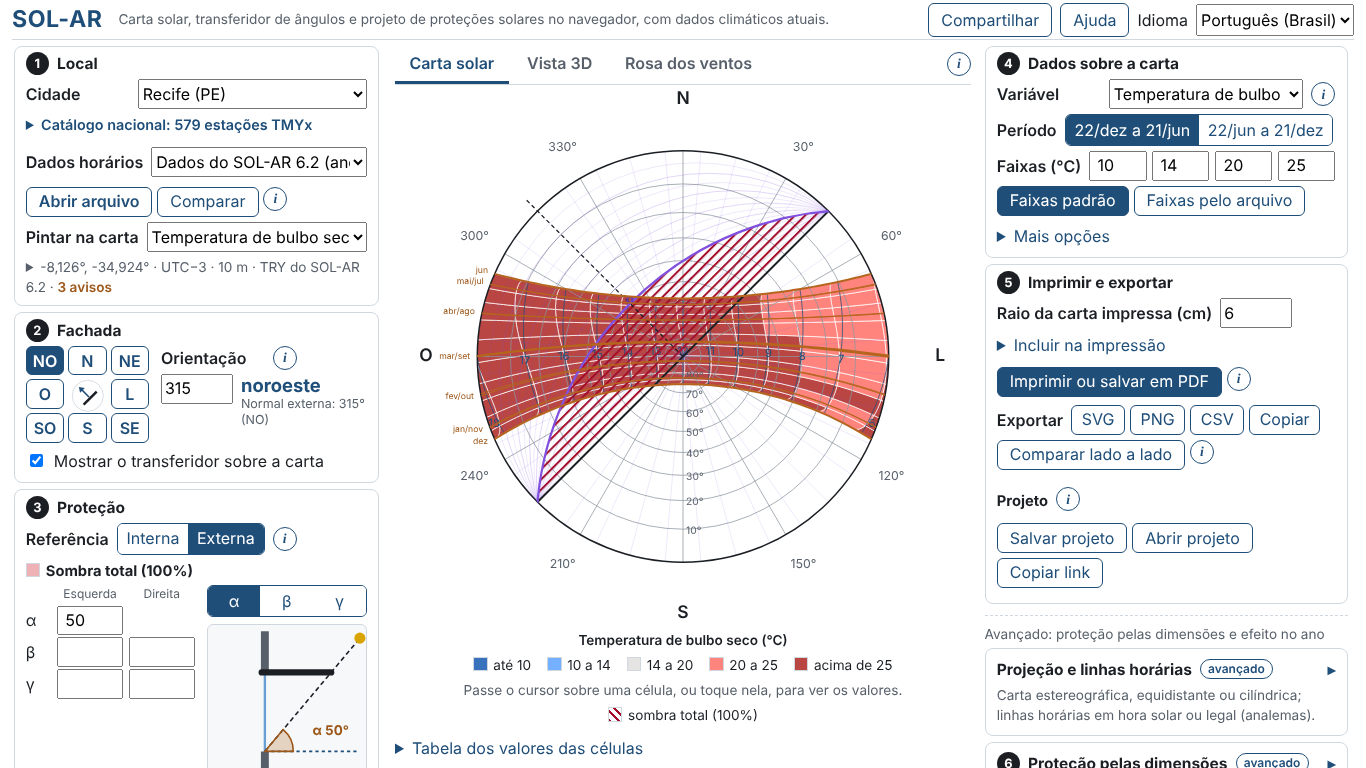
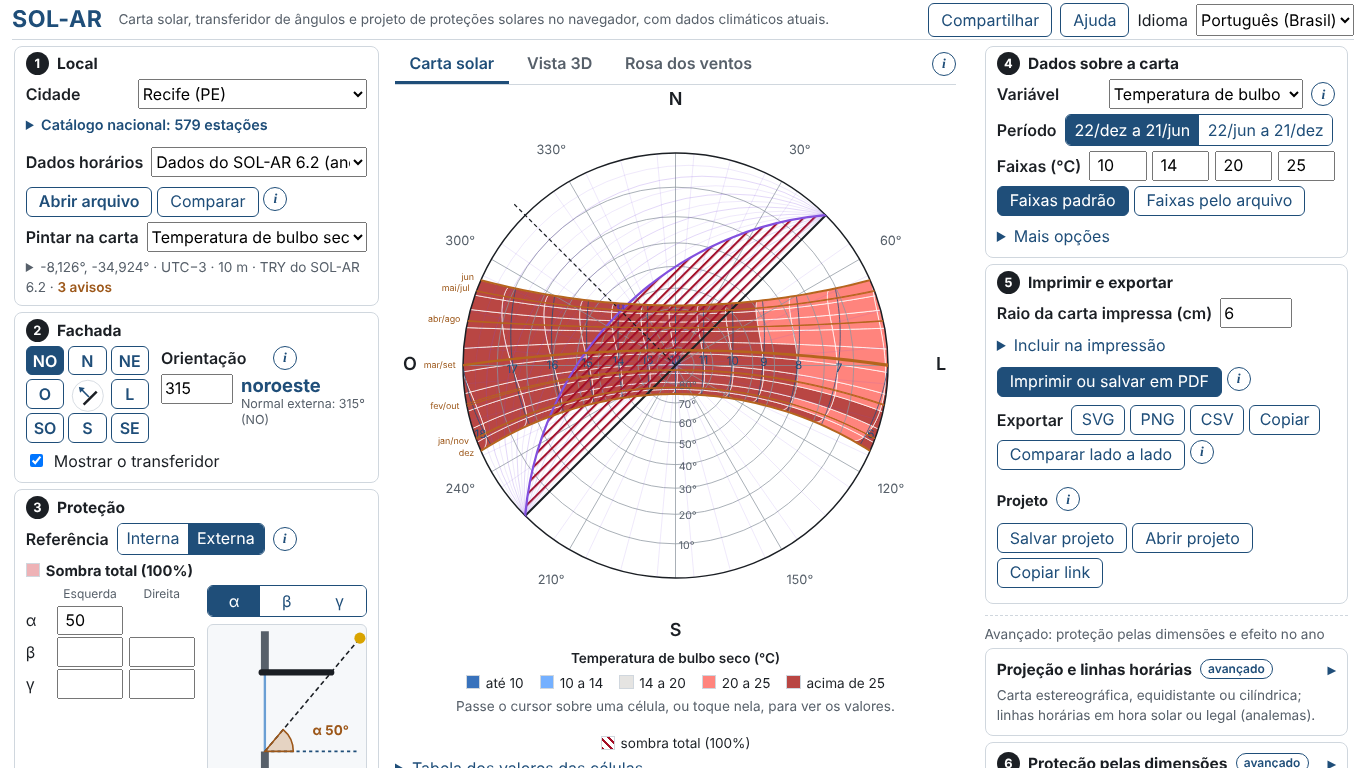
Leiaute em colunas: carta com tamanho fixo pela janela; rótulos que cabem na fonte do CI
- A carta ocupa a largura da coluna do meio, com a altura limitada pela
  da janela menos 12rem: o tamanho deixa de depender das legendas, que
  mudavam a escala da carta quando um cálculo terminava ou o valor da
  célula aparecia. O que passa da altura rola na coluna, com o espaço da
  barra reservado.
- Com a DejaVu Sans (a fonte do CI), três linhas quebravam em duas na
  coluna de 1200 px: a lista das fontes, o catálogo e o transferidor.
  Ficam numa linha: lista mais estreita, "Catálogo nacional: 579
  estações" e "Mostrar o transferidor" (com "sobre a carta" para o leitor
  de tela).
- Rótulos móveis da carta não cobrem mais os pontos do sol do período:
  os pontos contam como obstáculo na escolha da posição (o rótulo de uma
  marca podia cobrir o ponto do α com a fonte do CI).
- Teste do dimensionamento: a carta vem à vista sem ser centrada, o que
  rolaria a coluna do meio.

Claude-Session: https://claude.ai/code/session_01DzrTnMnaozu3adPAqfcNJE

diff --git a/src/ui/styles.css b/src/ui/styles.css
@@ -2316,7 +2316,7 @@ a.btn {
 }
 
 .field.sources .row > select {
-  flex-basis: 10rem;
+  flex-basis: 7rem;
 }
 
 .source-actions {
@@ -2572,74 +2572,50 @@ details.print-include {
     margin-top: 0.75rem;
   }
 
-  /* A carta do maior tamanho que a coluna permite: a moldura preenche a altura que sobra das
-     abas e das legendas, e o SVG se ajusta a ela sem deformar. */
+  /* A carta do maior tamanho que a coluna permite, com a altura limitada pela da janela menos o
+     cabeçalho, as abas e as legendas (12rem): o tamanho depende só da janela, e não muda quando as
+     legendas mudam (cálculo em andamento, valor da célula sob o mouse). O que passar da altura (a
+     tabela das células, a rosa com os filtros, a vista 3D, a comparação) rola na coluna, com o
+     espaço da barra de rolagem sempre reservado, para a carta não mudar de largura. */
   .chart-section {
     position: relative;
-    display: flex;
-    flex-direction: column;
     min-width: 0;
     min-height: 0;
     padding-top: 0.25rem;
-    overflow: hidden;
-  }
-
-  .chart-section > .info-text {
-    flex: none;
-    max-height: 30%;
     overflow-y: auto;
+    overscroll-behavior: contain;
+    scrollbar-gutter: stable;
   }
 
-  .chart-section:not(.comparing) > #panel-chart {
-    display: flex;
-    flex: 1 1 auto;
-    flex-direction: column;
-    min-height: 0;
-  }
-
-  .chart-section:not(.comparing) > #panel-chart > .chart-view {
-    display: flex;
-    flex: 1 1 auto;
-    flex-direction: column;
-    min-height: 0;
-  }
-
-  .chart-section:not(.comparing) .chart-view > .chart-frame {
-    flex: 1 1 auto;
-    min-height: 12rem;
-  }
-
-  .chart-section:not(.comparing) .chart-frame > .sun-chart {
+  .chart-section .chart-frame > .sun-chart {
     width: 100%;
-    height: 100%;
+    height: auto;
     max-width: none;
+    max-height: calc(100dvh - 12rem);
     margin: 0;
   }
 
   .chart-section .chart-view > .legend,
   .chart-section .chart-view > .note,
   .chart-section .chart-view > .cell-info {
-    flex: none;
     margin: 0.15rem 0;
     font-size: 0.85rem;
   }
 
-  .chart-section .cell-info {
-    min-height: 0;
-  }
-
-  /* A rosa, a vista 3D e a comparação rolam dentro da coluna; a rosa cabe abaixo dos filtros. */
-  .chart-section > #panel-rose,
-  .chart-section > #panel-3d,
-  .chart-section > .compare,
-  .chart-section > .difference {
-    flex: 1 1 auto;
-    min-height: 0;
-    overflow-y: auto;
-  }
-
   .chart-section .wind-rose {
     max-height: calc(100dvh - 22rem);
+  }
+
+  .chart-section .cell-info {
+    margin-bottom: 0;
+  }
+
+  .chart-section .cell-table {
+    margin-top: 0.15rem;
+  }
+
+  .chart-section details.more summary {
+    min-height: 26px;
   }
 
   /* Passos: os sempre abertos (decisão 0050) com o título no lugar do resumo; os avançados

diff --git a/src/ui/i18n/messages.es.ts b/src/ui/i18n/messages.es.ts
@@ -883,7 +883,7 @@ export const es: Catalog = {
     'La orientación cambió: la comparación sigue con la fachada a {orientation}°, la del ejercicio.',
   'mask.answer': 'máscara calculada (respuesta del ejercicio)',
   // F4.1: catálogo nacional de estaciones (decisión 0034).
-  'catalog.heading': 'Catálogo nacional: {count} estaciones TMYx',
+  'catalog.heading': 'Catálogo nacional: {count} estaciones',
   'catalog.intro':
     'Estaciones de Brasil con archivo TMYx 2011 a 2025 en Climate.OneBuilding.org, con los datos de cada archivo y la calidad verificada por nosotros. El archivo se descarga del sitio oficial y se carga aquí.',
   'catalog.loading': 'Cargando el catálogo…',
@@ -1090,6 +1090,8 @@ export const es: Catalog = {
   'site.originLink': 'coordenadas del enlace',
   'facade.orientationLabel': 'Orientación',
   'facade.orientationLabelDetail': ' de la fachada (acimut de la normal exterior)',
+  'facade.showProtractorShort': 'Mostrar el transportador',
+  'facade.showProtractorDetail': ' sobre la carta',
   'protection.referenceShort': 'Referencia',
   'angles.caption': '{view}, referencia {reference}',
   'sources.compareShort': 'Comparar',

diff --git a/src/ui/i18n/messages.en.ts b/src/ui/i18n/messages.en.ts
@@ -874,7 +874,7 @@ export const en: Catalog = {
     'The orientation changed: the comparison stays with the facade at {orientation}°, that of the exercise.',
   'mask.answer': 'computed mask (answer of the exercise)',
   // F4.1: national station catalogue (decision 0034).
-  'catalog.heading': 'National catalogue: {count} TMYx stations',
+  'catalog.heading': 'National catalogue: {count} stations',
   'catalog.intro':
     'Brazilian stations with a TMYx 2011 to 2025 file on Climate.OneBuilding.org, with the data of each file and its quality checked by us. The file is downloaded from the official site and loaded here.',
   'catalog.loading': 'Loading the catalogue…',
@@ -1079,6 +1079,8 @@ export const en: Catalog = {
   'site.originLink': 'coordinates from the link',
   'facade.orientationLabel': 'Facade orientation',
   'facade.orientationLabelDetail': ' (azimuth of the outward normal)',
+  'facade.showProtractorShort': 'Show the protractor',
+  'facade.showProtractorDetail': ' on the chart',
   'protection.referenceShort': 'Reference',
   'angles.caption': '{view}, {reference} reference',
   'sources.compareShort': 'Compare',

diff --git a/src/ui/chart/useLabelLayout.ts b/src/ui/chart/useLabelLayout.ts
@@ -20,7 +20,8 @@ function apply(el: SVGTextElement, c: Candidate) {
 
 /**
  * Põe cada texto com `data-candidates` da carta na primeira posição candidata que não cobre outro
- * texto (labelLayout.ts). Roda depois de cada desenho, antes da pintura; mede só quando os textos
+ * texto nem uma marca com `data-label-obstacle` (os pontos do sol do período, por exemplo; ver
+ * labelLayout.ts). Roda depois de cada desenho, antes da pintura; mede só quando os textos
  * mudaram.
  */
 export function layoutLabels(svg: SVGSVGElement) {
@@ -41,7 +42,8 @@ export function layoutLabels(svg: SVGSVGElement) {
     movable.forEach((el, i) => apply(el, candidates[i]![cached.choice[i]!]!));
     return;
   }
-  const obstacles = fixed.map(rectOf).filter((b) => b.x1 > b.x0 && b.y1 > b.y0);
+  const marks = [...svg.querySelectorAll('[data-label-obstacle]')];
+  const obstacles = [...fixed, ...marks].map(rectOf).filter((b) => b.x1 > b.x0 && b.y1 > b.y0);
   const choice = movable.map((el, i) => {
     const cands = candidates[i]!;
     const boxes = cands.map((c) => {

diff --git a/e2e/dimensionamento.spec.ts b/e2e/dimensionamento.spec.ts
@@ -71,7 +71,9 @@ test.describe('passo 6: dimensionamento pelo período (F3.6)', () => {
     // Grade de pontos da carta, separados pelo contorno desenhado (com 0,03 de folga): os de
     // dentro ficam em maioria esverdeados (linhas da carta cobrem uma parte), os de fora, quase
     // nunca.
-    await chart.evaluate((el) => el.scrollIntoView({ block: 'center' }));
+    // Só se a carta não estiver inteira à vista: centrar rolaria a coluna do meio (decisão 0050) e
+    // tiraria de vista a metade de cima, onde fica o sol de 21/6.
+    await chart.evaluate((el) => el.scrollIntoView({ block: 'nearest' }));
     const d = (await page.getByTestId('period-area').getAttribute('d'))!;
     const poly = [...d.matchAll(/[ML](-?[\d.]+),(-?[\d.]+)/g)].map((m) => [
       Number(m[1]),

diff --git a/src/ui/i18n/messages.pt-BR.fase4.ts b/src/ui/i18n/messages.pt-BR.fase4.ts
@@ -197,7 +197,7 @@ export const fase4PtBR = {
     'A orientação mudou: a comparação continua com a fachada a {orientation}°, a do exercício.',
   'mask.answer': 'máscara calculada (resposta do exercício)',
   // F4.1: catálogo nacional de estações (decisão 0034).
-  'catalog.heading': 'Catálogo nacional: {count} estações TMYx',
+  'catalog.heading': 'Catálogo nacional: {count} estações',
   'catalog.intro':
     'Estações do Brasil com arquivo TMYx 2011 a 2025 no Climate.OneBuilding.org, com os dados de cada arquivo e a qualidade conferida por nós. O arquivo é baixado do site oficial e carregado aqui.',
   'catalog.loading': 'Carregando o catálogo…',

diff --git a/src/ui/i18n/messages.pt-BR.layout.ts b/src/ui/i18n/messages.pt-BR.layout.ts
@@ -19,6 +19,8 @@ export const layoutPtBR = {
   // Passo 2: o rótulo curto à vista; o resto do nome do campo para o leitor de tela.
   'facade.orientationLabel': 'Orientação',
   'facade.orientationLabelDetail': ' da fachada (azimute da normal externa)',
+  'facade.showProtractorShort': 'Mostrar o transferidor',
+  'facade.showProtractorDetail': ' sobre a carta',
   // Passo 3: o rótulo curto da referência (o grupo tem o nome inteiro).
   'protection.referenceShort': 'Referência',
   'angles.caption': '{view}, referência {reference}',

diff --git a/src/ui/sizing/PeriodLayer.tsx b/src/ui/sizing/PeriodLayer.tsx
@@ -78,7 +78,8 @@ export function PeriodMarks({
     <g className="period" data-testid="period-marks">
       {[...marks.values()].map((m) => (
         <g key={`${m.x},${m.y}`} className="period-mark" data-testid="period-mark">
-          <circle cx={m.x} cy={m.y} r={0.018} />
+          {/* Obstáculo para os rótulos móveis: nenhum rótulo cobre o ponto do sol. */}
+          <circle cx={m.x} cy={m.y} r={0.018} data-label-obstacle="" />
           <text
             x={m.x + 0.03}
             y={m.y}

diff --git a/src/ui/protractor/FacadePanel.tsx b/src/ui/protractor/FacadePanel.tsx
@@ -180,7 +180,11 @@ export function FacadePanel({
           checked={state.show}
           onChange={(e) => onChange({ tr: e.target.checked ? '' : '0' })}
         />
-        {t('facade.showProtractor')}
+        {/* Rótulo curto à vista, para caber numa linha; o nome inteiro para o leitor de tela. */}
+        <span>
+          {t('facade.showProtractorShort')}
+          <span className="visually-hidden">{t('facade.showProtractorDetail')}</span>
+        </span>
       </label>
     </div>
   );

diff --git a/docs/decisoes/0050-leiaute-em-colunas.md b/docs/decisoes/0050-leiaute-em-colunas.md
@@ -14,7 +14,7 @@ Num monitor de 1552 px, a página usava cerca de 1000 px no meio (largura máxim
    - **largura média, de 52rem a 75rem (832 a 1200 px)**: duas colunas, os passos à esquerda e a carta à direita;
    - **celular, abaixo de 52rem**: como estava (carta fixa no topo, passos em acordeão embaixo, decisões 0013 e 0044).
 2. **A partir de 52rem, a página tem a altura e a largura da janela e não rola**: cabeçalho numa linha só (título, frase do SOL-AR, Compartilhar, Ajuda, Idioma) e, abaixo, as colunas, cada uma com a própria rolagem. Nada de largura máxima.
-3. **Carta do maior tamanho que a altura permite.** A coluna do meio tem a largura da carta quadrada que cabe na altura da janela menos o cabeçalho, as abas e as legendas dos dados (12rem), sem deixar as laterais com menos de 20rem; o que sobra vai para as laterais, até 34rem cada, e depois para o meio. O SVG preenche a altura que sobra das abas e legendas e se ajusta a ela sem deformar. Medido com a temperatura pintada (legenda das faixas embaixo): carta de 568 px em 1366 × 768 (74% da altura), 664 px em 1536 × 864 (77%) e 880 px em 1920 × 1080 (81%). **Proposta:** a reserva de 12rem e as laterais de 20 a 34rem.
+3. **Carta do maior tamanho que a altura permite.** A coluna do meio tem a largura da carta quadrada que cabe na altura da janela menos o cabeçalho, as abas e as legendas dos dados (12rem), sem deixar as laterais com menos de 20rem; o que sobra vai para as laterais, até 34rem cada, e depois para o meio. A carta ocupa a largura da coluna, com a altura limitada pela da janela menos os mesmos 12rem: o tamanho depende só da janela e não muda quando as legendas mudam (cálculo em andamento, valor da célula sob o mouse); o que passar da altura (a tabela das células, a rosa com os filtros, a vista 3D, a comparação) rola na coluna do meio, com o espaço da barra de rolagem reservado. Medido com a temperatura pintada (legenda das faixas embaixo, sem rolar a coluna): carta de 561 px em 1366 × 768 (73% da altura), 657 px em 1536 × 864 (76%) e 873 px em 1920 × 1080 (81%); 576 px (75%) em 1024 × 768. **Proposta:** a reserva de 12rem e as laterais de 20 a 34rem.
 4. **Passos 1 a 5 sempre abertos no computador**, sem acordeão, sem botão "Próximo" e sem resumo (o conteúdo diz o mesmo). O painel de projeção e linhas horárias e os passos 6 e 7 continuam recolhidos no grupo "Avançado", um aberto por vez (princípio 1). Um link que abre um passo avançado leva o cabeçalho dele ao alto da coluna da direita.
 5. **Resultados dos passos 6 e 7 na coluna da direita**, logo abaixo do formulário do próprio passo (mapa mês × hora, classes, indicadores e alternativas). Uma faixa embaixo da carta não cabe sem rolar: em 1366 × 768, mantida a carta com 60% da altura (461 px), sobram cerca de 150 px abaixo dela, contra cerca de 1.900 px do bloco do passo 7 e 700 px do mapa do passo 6 (medidos com 648 px de largura). A faixa precisaria da própria rolagem e encolheria a carta a cada passo avançado aberto; na coluna da direita, a carta fica do mesmo tamanho e cada resultado fica com o passo que o produz. O mapa do catálogo (passo 1) fica no próprio passo 1. **Proposta.**
 6. **Blocos compactos**:
@@ -29,7 +29,7 @@ Num monitor de 1552 px, a página usava cerca de 1000 px no meio (largura máxim
 7. **Critério verificável** (`e2e/colunas.spec.ts`): em 1366 × 768, 1536 × 864 e 1920 × 1080, a altura e a largura do documento iguais às da janela, a carta desenhada inteira na janela e com pelo menos 60% da altura dela, e os campos principais dos passos 1 a 5 (cidade, fontes, abrir arquivo, pintar; orientação e rumos; referência e os cinco ângulos; variável, período e faixas; raio, imprimir e exportar) inteiros à vista sem rolar coluna nenhuma. Também: três colunas na ordem, axe sem violações, ordem do Tab do cabeçalho para a coluna da esquerda, a carta e a coluna da direita, e duas colunas sem rolar a página em 1024 × 768.
 8. **Ordem do teclado igual à da tela**: no computador, o HTML segue cabeçalho, passos 1 a 3, carta, passos 4 a 7; na largura média e no celular, passos e depois carta, como antes.
 9. **Atalho entre passos (decisão 0040)**: continua com o passo 6 ou 7 aberto na largura média e no celular; some nas três colunas, em que todos os passos ficam à vista.
-10. **Página do teste**: durante a tarefa (ferramenta livre), o roteiro estreita para `clamp(10rem, 100vw − 75rem, 23rem)`, de modo que a ferramenta fique com pelo menos 1200 px e mostre as três colunas a partir de telas de 1366 px; fora da tarefa (ferramenta coberta), o roteiro fica com os 23rem de sempre. Medido: em 1366 × 768, o roteiro fica com 166 px e a ferramenta com 1200 × 732 px, com os campos principais dos passos 1 a 3 à vista (o γ termina a 8 px do pé da coluna); em 1536 × 864, 336 px e 1200 × 828; em 1920 × 1080, nada muda (368 px e 1552 × 1044). **Proposta.**
+10. **Página do teste**: durante a tarefa (ferramenta livre), o roteiro estreita para `clamp(10rem, 100vw − 75rem, 23rem)`, de modo que a ferramenta fique com pelo menos 1200 px e mostre as três colunas a partir de telas de 1366 px; fora da tarefa (ferramenta coberta), o roteiro fica com os 23rem de sempre. Medido: em 1366 × 768, o roteiro fica com 166 px e a ferramenta com 1200 × 732 px, a carta com 489 px (67% da altura da ferramenta) e os campos principais dos passos 1 a 5 à vista (o γ termina 28 px acima do pé da coluna); em 1536 × 864, 336 px e 1200 × 828; em 1920 × 1080, nada muda (368 px e 1552 × 1044). **Proposta.**
 
 ## Alternativas consideradas
 
@@ -48,4 +48,4 @@ Num monitor de 1552 px, a página usava cerca de 1000 px no meio (largura máxim
 - Testes de ponta a ponta: `e2e/colunas.spec.ts` (novo); `e2e/resultados-ao-lado.spec.ts` sai; os do acordeão rodam no celular; os que procuravam os resumos dos passos fechados, textos agora atrás do "i" ou as opções de impressão passam a abrir o que precisam.
 - JavaScript inicial: 472,4 kB (153,4 kB com gzip), abaixo do orçamento de 480 kB (156 kB) da decisão 0039.
 - Os textos de dentro dos passos 6 e 7 não foram compactados: são conteúdo avançado, na coluna que rola. Se o teste com participantes mostrar que atrapalham, entram no mesmo padrão.
-- A medida dos campos à vista depende das fontes do sistema: na sessão (fonte Inter), a folga em 1366 × 768 é de cerca de 60 px abaixo do γ; numa fonte mais larga, um rótulo pode quebrar em duas linhas e comer parte dela. O teste de ponta a ponta acusa, no CI.
+- A medida dos campos à vista depende das fontes do sistema: um rótulo que quebra em duas linhas come a folga. Conferido com a Inter (sessão) e com a DejaVu Sans (a do CI, mais larga), que pediu rótulos mais curtos no passo 1 ("Catálogo nacional: 579 estações") e no passo 2 ("Mostrar o transferidor", com "sobre a carta" só para o leitor de tela); com as duas, o γ termina 69 px acima do pé da coluna em 1366 × 768 e 28 px na ferramenta dentro da página do teste. O teste de ponta a ponta acusa, no CI.
